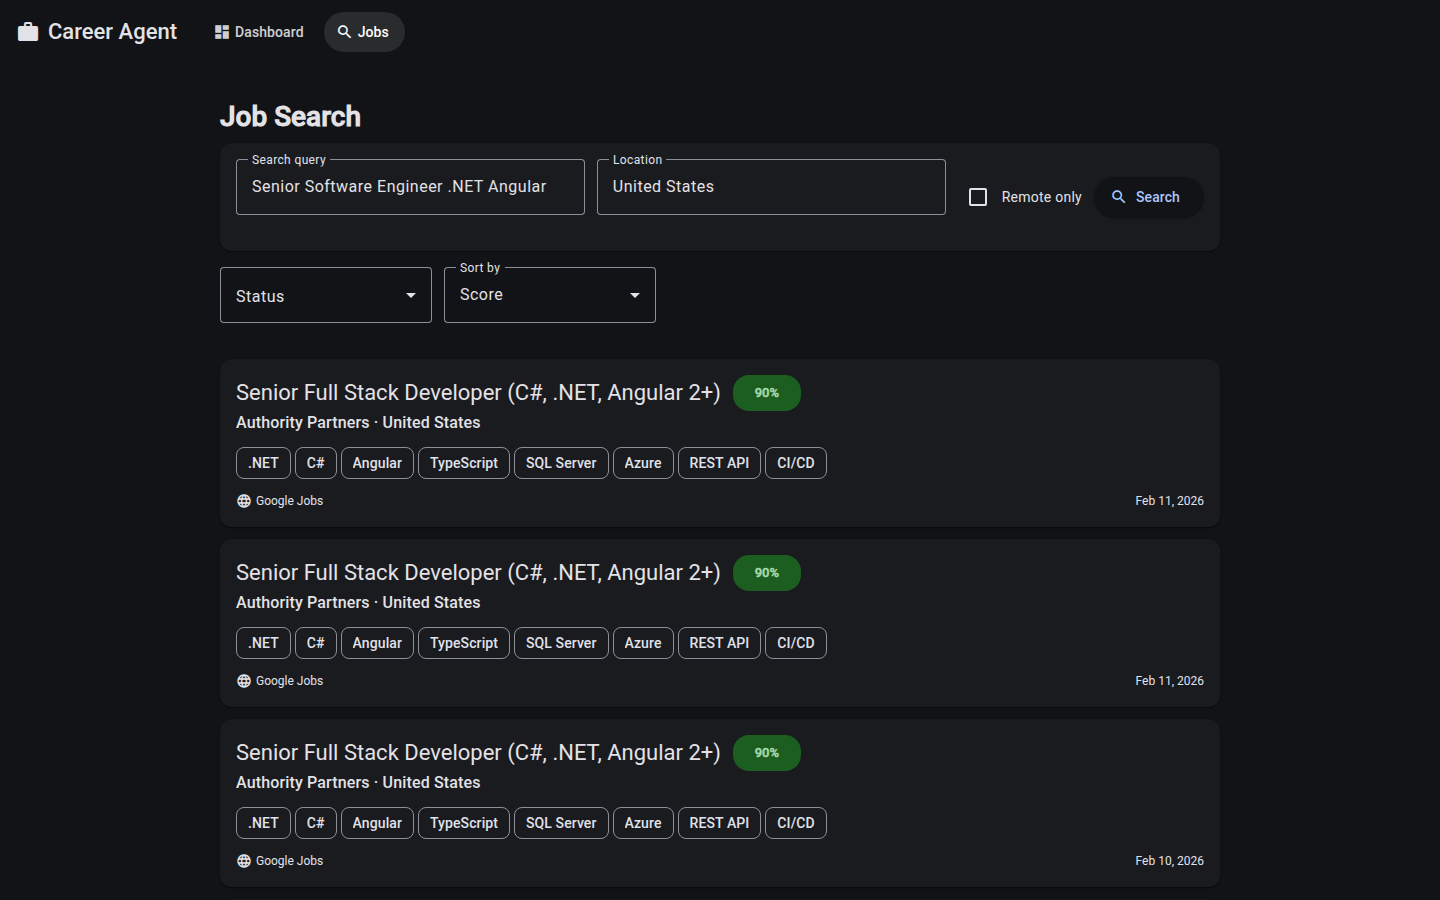
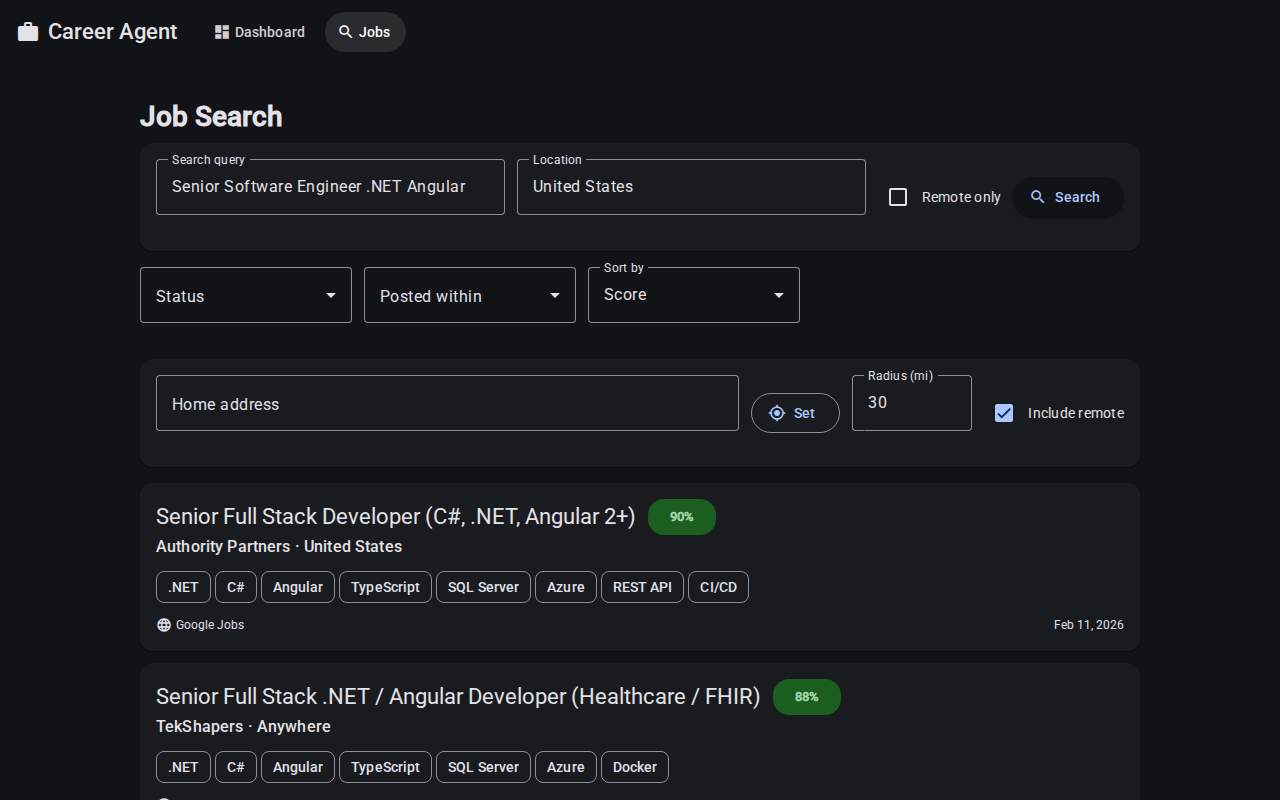
Update README and screenshots for location filter and apply links

diff --git a/README.md b/README.md
@@ -10,12 +10,12 @@ Overview with job stats, top scoring matches, and recently posted listings.
 ![Dashboard](docs/screenshots/dashboard.png)
 
 ### Job Search
-Search and filter jobs by query, location, status, and relevance score.
+Search and filter jobs by query, location, status, and relevance score. Location filter shows remote jobs and/or jobs within a radius of your home address.
 
 ![Job Search](docs/screenshots/job-search.png)
 
 ### Job Detail
-Full job posting with skill match analysis (matched vs missing skills).
+Full job posting with skill match analysis and direct apply links (LinkedIn, Indeed, ZipRecruiter, etc.).
 
 ![Job Detail](docs/screenshots/job-detail.png)
 
@@ -27,6 +27,8 @@ AI-generated tailored resume and cover letter side-by-side with the job descript
 ## Features
 
 - **Job Search** — Searches Google Jobs via SerpAPI across LinkedIn, Indeed, Glassdoor, and more
+- **Location Filter** — Show remote jobs and/or jobs within a radius of your home address (geocoded via OpenStreetMap Nominatim)
+- **Direct Apply Links** — One-click apply buttons for LinkedIn, Indeed, ZipRecruiter, and other job boards
 - **Relevance Scoring** — Automatically scores and ranks jobs against your skills and experience
 - **Resume Tailoring** — AI rewrites your resume to match specific job descriptions using Google Gemini (free tier)
 - **Cover Letter Generation** — Generates targeted cover letters alongside each tailored resume
